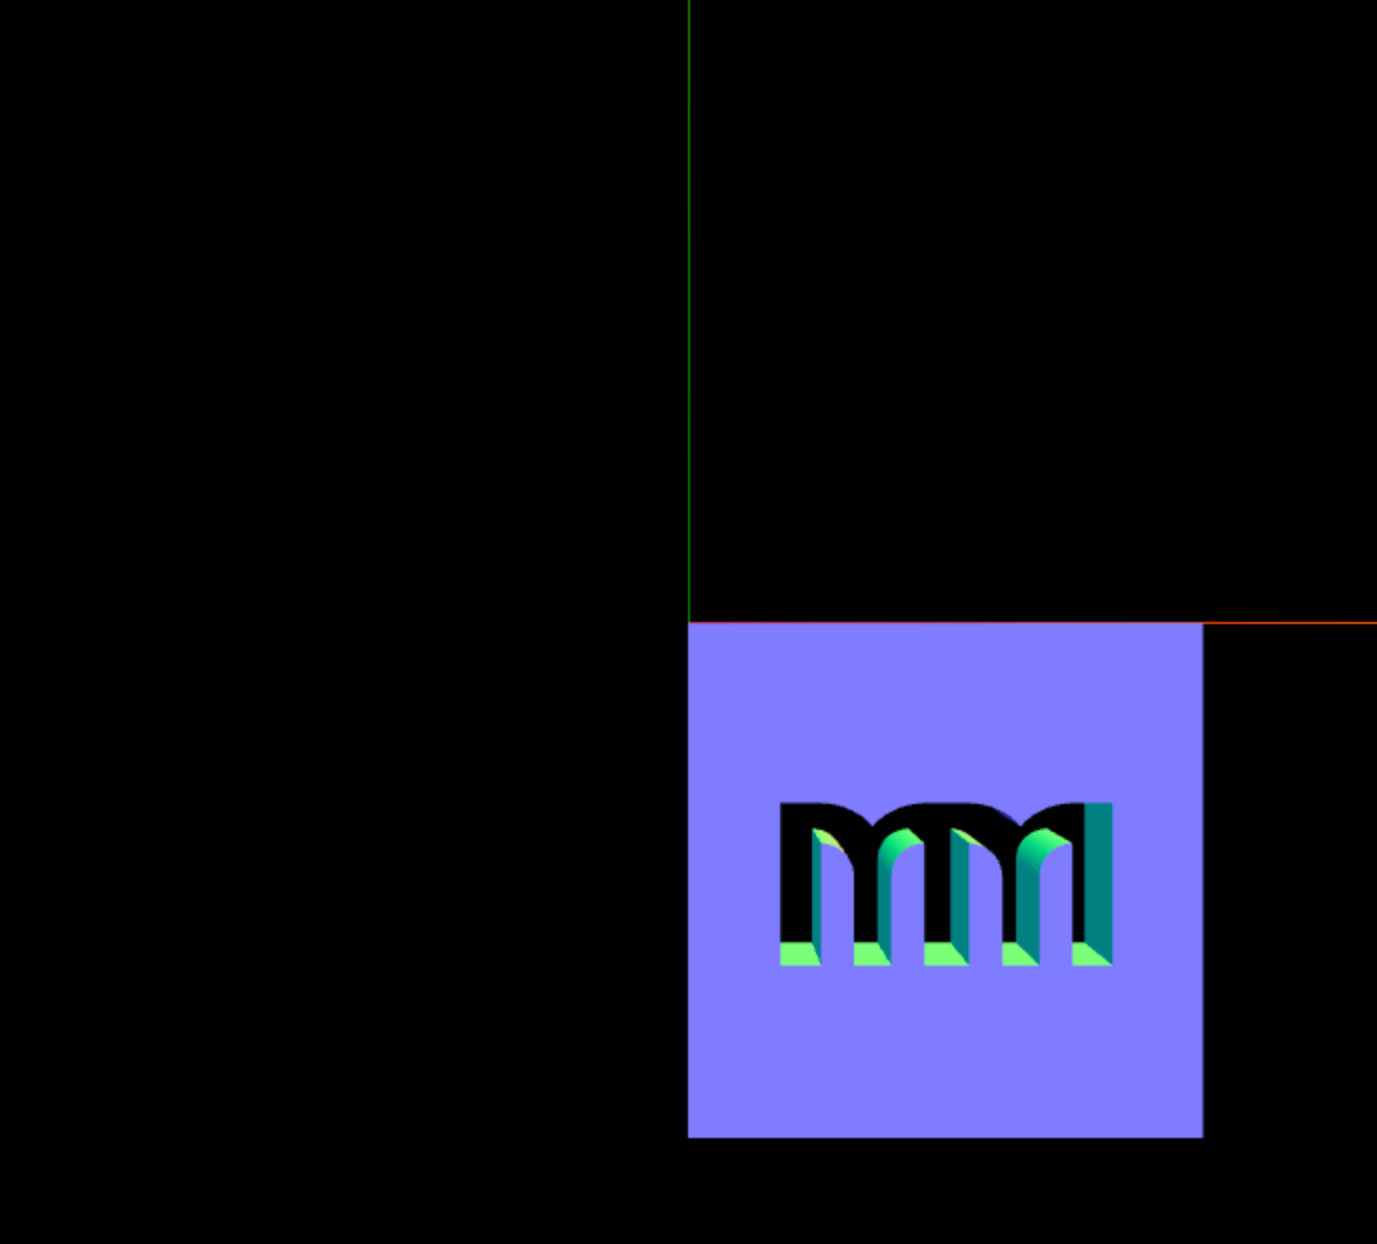
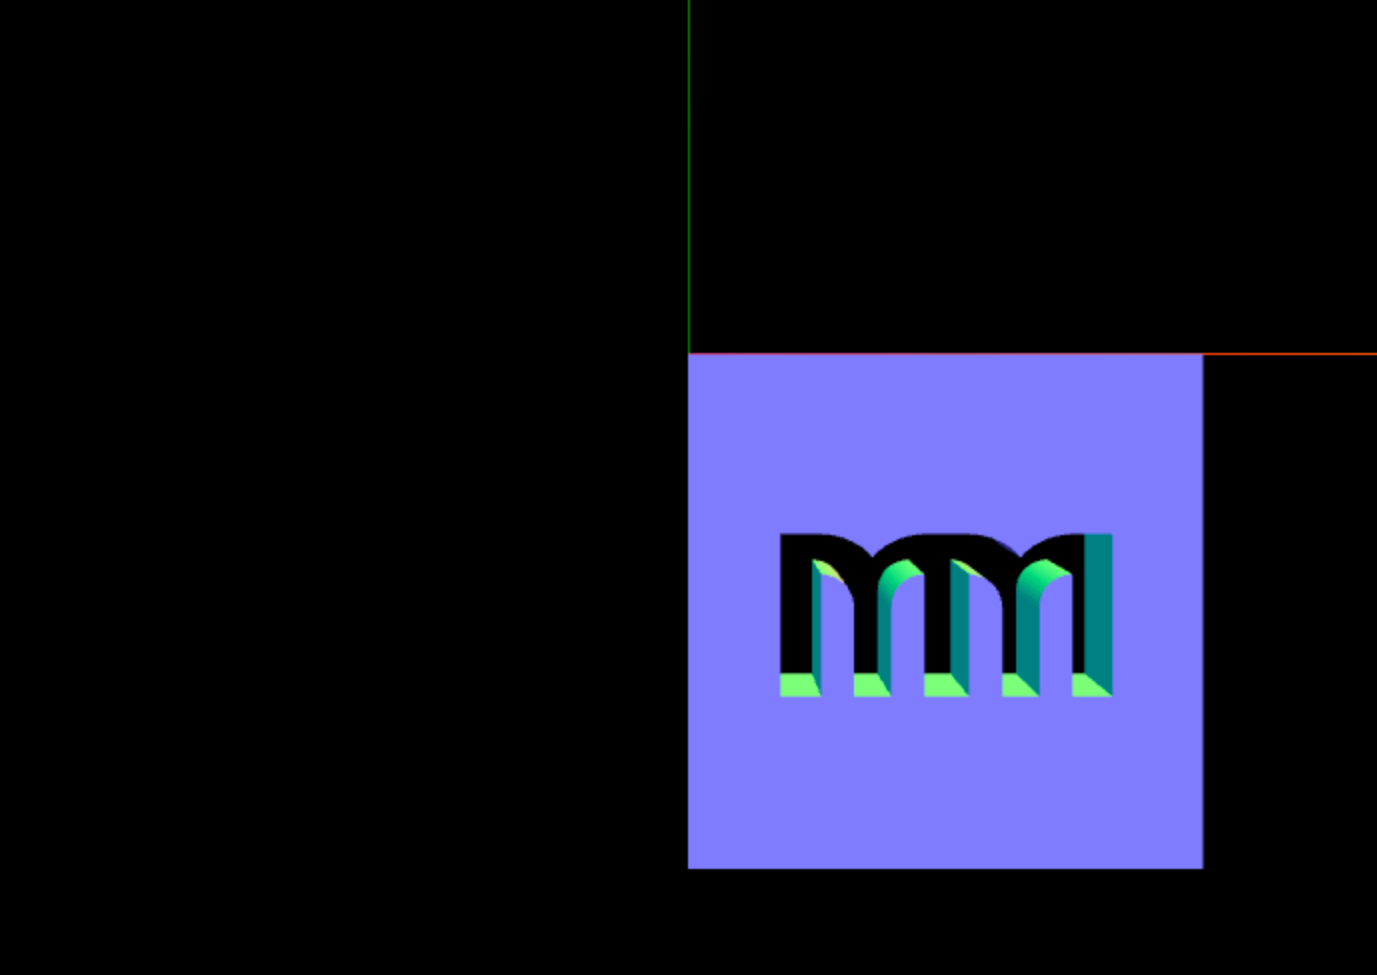
Updated posts

Changed region(s): [[0.4996, 0.3385, 1.0, 0.8], [0.4996, 0.8923, 0.8744, 0.9231]]

diff --git a/_posts/2019-12-18-three-js-extrude-svg-path.md b/_posts/2019-12-18-three-js-extrude-svg-path.md
@@ -138,6 +138,10 @@ To show our object in it's full 3d glory let's add a rotation around Y axis. But
 
 ![Our element rotates around it's corner and it's center](/public/img/extrude-svg/step-three.png)
 
+**September 2020 update**: if you have only one path in the SVG you can use the tip from [tuseroni's comment](#comment-4a02eb80-f1c8-11ea-894e-1b3701341697). Basically you just need to call `geometry.center()` before creating the mesg, to center it based on the bounding box. Unfortunately if you have multiple paths, this won't work.
+
+----
+
 Usual way of changing the rotation pivot is by offsetting the object's geometry. We can't do that, as `Group` class doesn't have geometry, but we can offset all of it's children. Now it comes handy that children are relative to themselves. We are just going to offset each child object for the half of the width and height of the whole group.
 
 ```js
